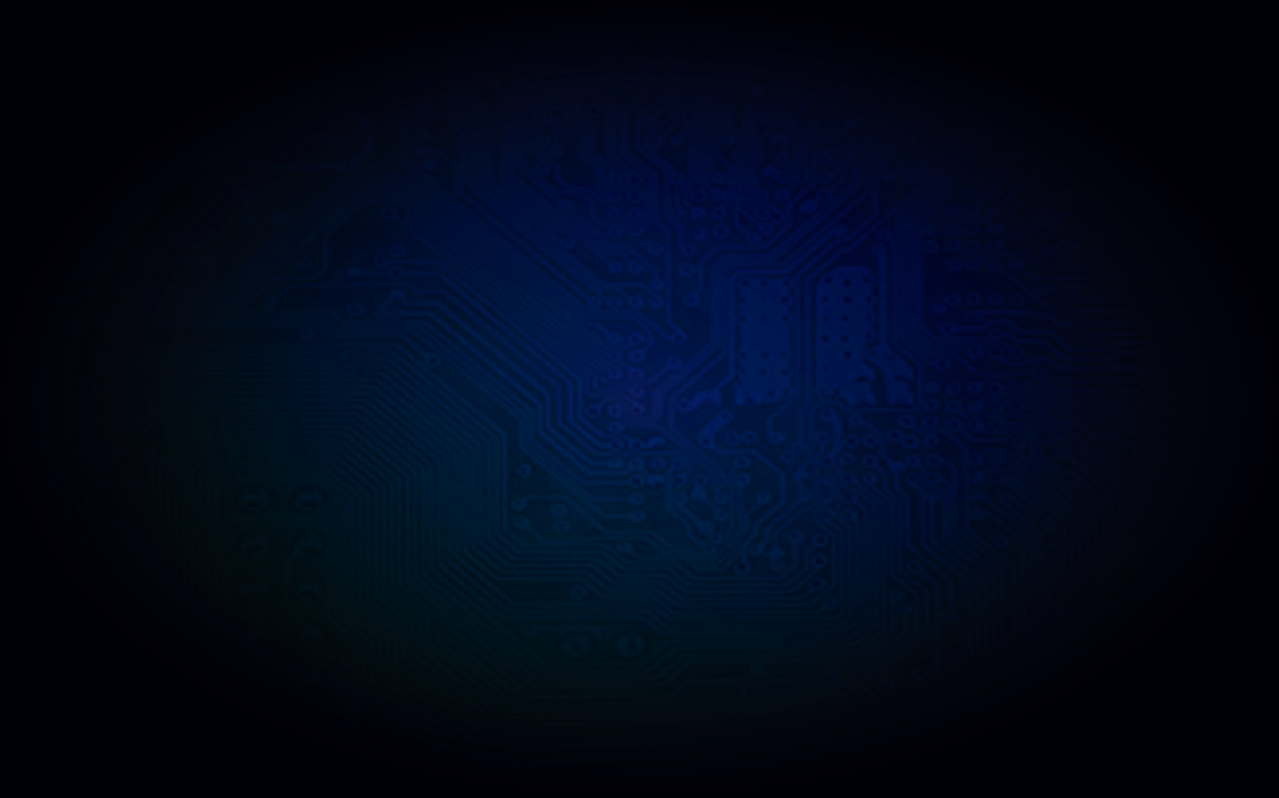
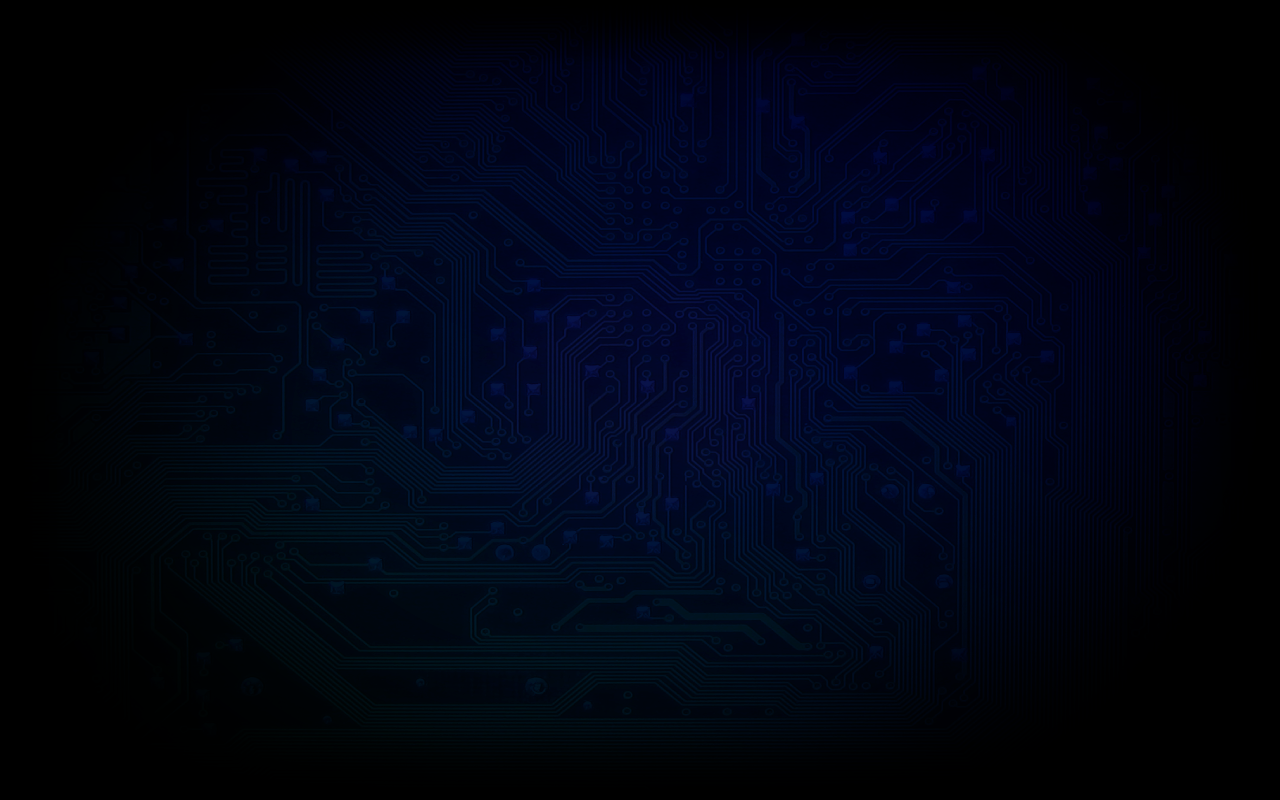
Edit the background image and the background color.

Changed region(s): [[0.2744, 0.2105, 0.7928, 0.7218]]

diff --git a/js/game_engine/game.js b/js/game_engine/game.js
@@ -5,18 +5,12 @@ function game() {
 
 function genSecretKey(dim) {
 
-    var sk = null;
+    var sk = [];
 
-    var pre_key12 = [8, -3, 1, 0, -1, 0, -1, 1, 2, 0, -2, 1];
-    var pre_key10 = [8, -3, 1, 0, -1, 0, -1, 1, 2, 0];
-    var pre_key8 = [8, -3, 1, 0, -1, 0, -1, 1];
+    var pre_key = [8, -3, 1, 0, -1, 0, -1, 1, 2, 0, -2, 1];
 
-    if (dim === 8) {
-        sk = pre_key8;
-    } else if (dim === 10) {
-        sk = pre_key10;
-    } else if (dim === 12) {
-        sk = pre_key12;
+    for (var i = 0; i < dim; ++i) {
+        sk.push(pre_key[i]);
     }
 
     for (var a = 0; a < dim; ++a) {

diff --git a/style.css b/style.css
@@ -1,6 +1,6 @@
 body {
 	margin: 0px;
-	background-color: #000007;
+	background-color: #000000;
 	min-height: 800px;
 	overflow: hidden;
 }
